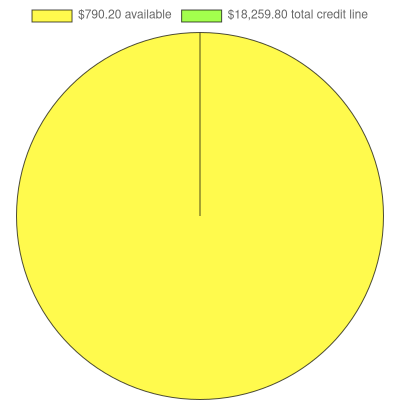
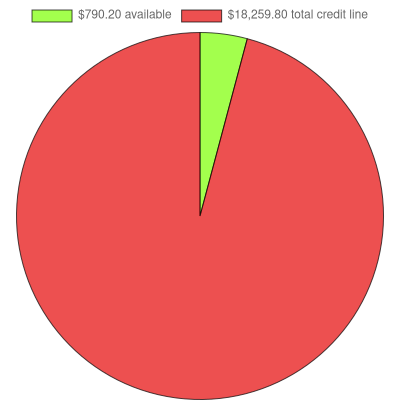
wrong colors

diff --git a/chart-gen.js b/chart-gen.js
@@ -57,8 +57,8 @@ const generatePieChart = async (data, label, filename) => {
           ],
           datasets: [{
               label,
-              data: [data[0], data[0] + data[1]],
-              backgroundColor: ['rgba(255, 247, 0, 0.7)', 'rgba(123, 255, 0, 0.7)'],
+              data: [data[1] - data[0], data[0]],
+              backgroundColor: ['rgba(123, 255, 0, 0.7)', 'rgba(229, 5, 5, 0.7)'],
               borderColor: ['rgba(0, 0, 0, 0.7)', 'rgba(0, 0, 0, 0.7)'],
               borderWidth: 1
           }]